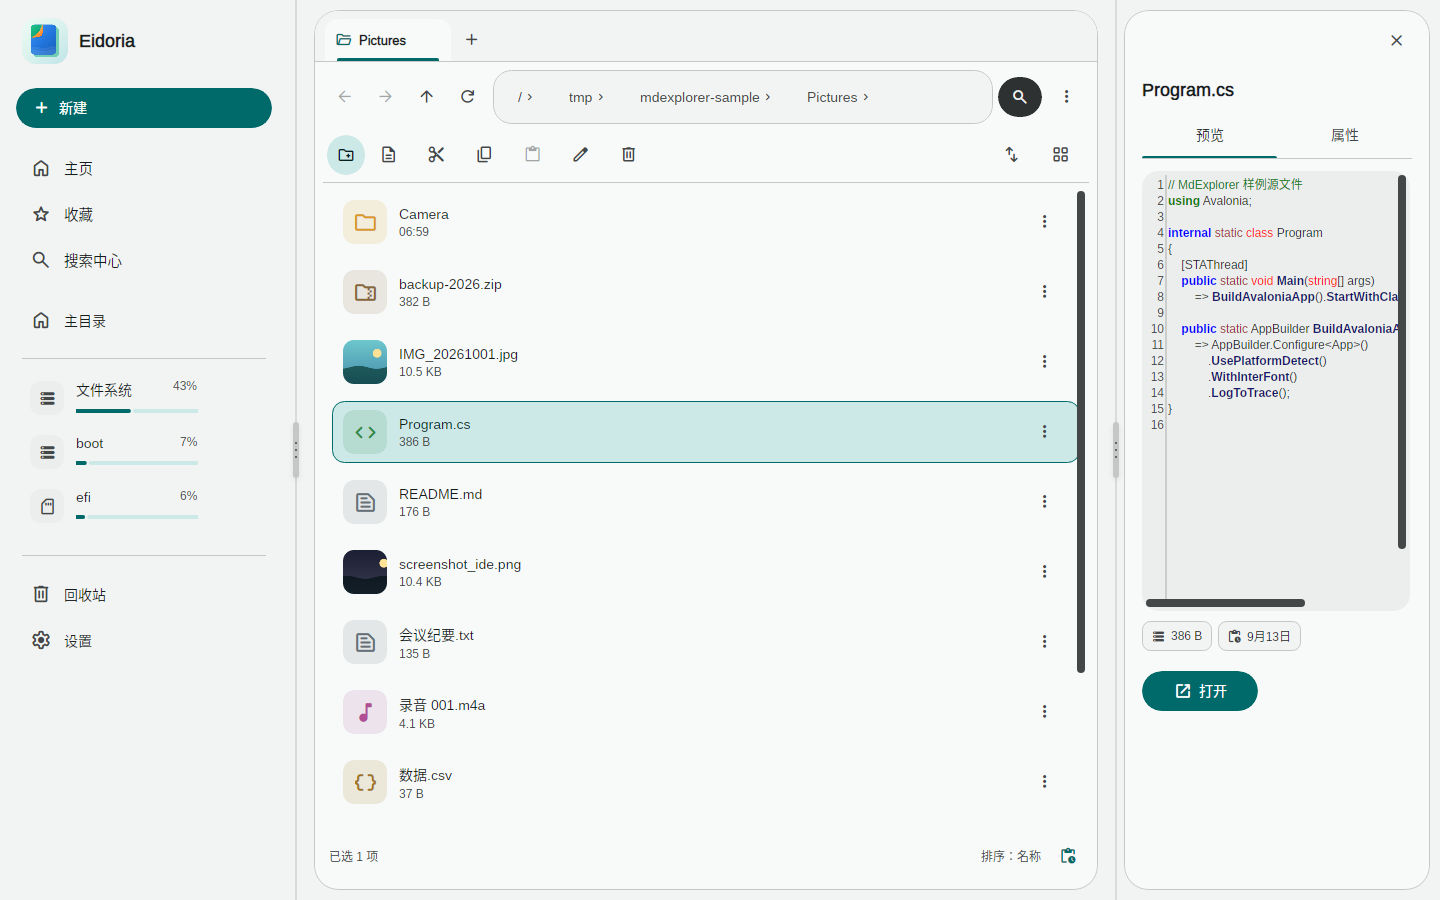
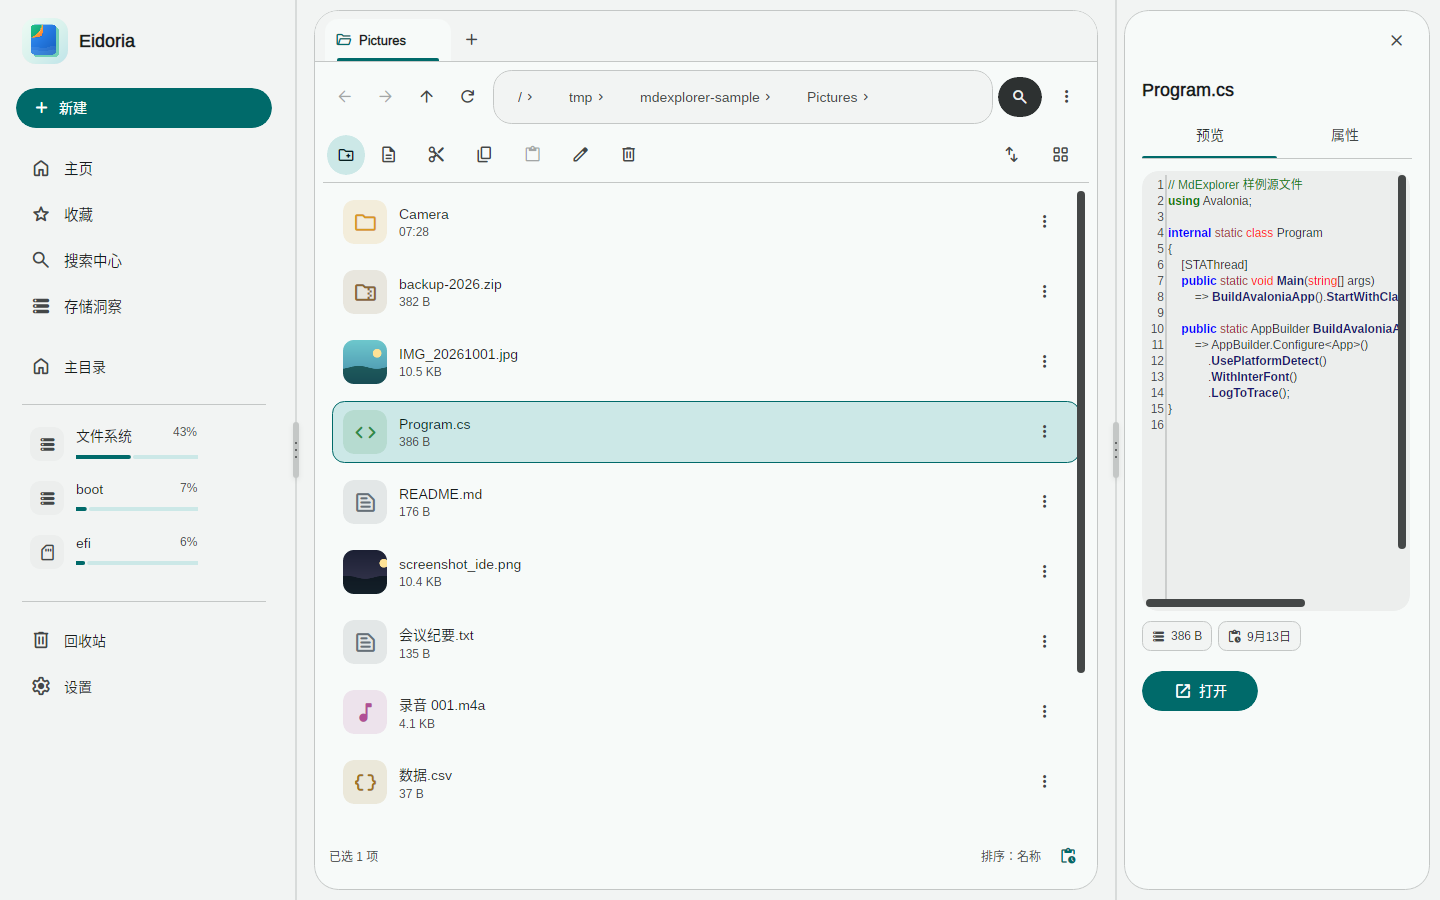
docs: archive v0.14 storage insights

diff --git a/README.md b/README.md
@@ -4,9 +4,9 @@
 
 基于 **Avalonia 12 + .NET 10** 的跨平台（Windows / Linux / Android）**本地**文件资源管理器，采用 **Material Design 3**（`Md3.Avalonia`）设计语言，按窗口尺寸类做真响应式（Adaptive）布局：底部导航栏（Compact）→ 导轨（Medium）→ 永久抽屉 + 预览侧栏（Expanded+）。核心层平台无关，平台能力经接口适配；许可证 Apache-2.0（见 `LICENSE`）。
 
-> **状态：v0.13**——浏览/搜索/预览（图片、文本、**Markdown 渲染、代码高亮、PDF 分页**、ZIP 条目）/复制移动删除（含回收站语义）/ZIP/收藏/设置已可用；v0.2 新增文件夹外部变更自动刷新、文件夹大小、校验和与批量重命名；**v0.3 新增 Android SAF 授权文件夹浏览**；**v0.4 新增详细信息视图**；**v0.5 新增拖放与系统剪贴板互通**；**v0.6 新增浏览器标签页与 PDF 分页预览，并将产品品牌定为 Eidoria（万象屿）**（名称与图标见 `docs/BRAND.md`；仓库、命名空间、Android ApplicationId 与数据目录仍保留内部代号 MdExplorer 以兼容既有数据）；**v0.7 新增串行任务中心、可编辑地址栏、最近访问与标签页恢复**；**v0.8 按概念稿重塑视觉层级：柔和底板承载白色工作区与预览浮动卡，标签页改为与工作区同面相连的浏览器式页签，路径胶囊、类型色图标井、圆角文件卡与精确 `MdList` 选中态统一收敛，Compact 将标签轨与面包屑折叠为当前目录**；**v0.9 换装极简新 Logo（深湖拱门·金日屿浪），三栏加入自研 Material 分隔条（拖动/键盘调整并持久化宽度，原型将回流 Md3.Avalonia），目录切换/页面与侧栏补齐入场与点击动效，插件脚本完成 Lua 优先评估（MoonSharp spike、Python 走进程外）**；**v0.10 新增按文件夹记忆视图与排序（可关、可清除、最多 200 个）和应用内“减少动态效果”，Material 分隔条补齐双击/Home 复位、16px 热区与 `:reduce-motion` 状态，设置页版本改为动态读取**；**v0.11 将整行搜索改成迷你搜索岛 + 悬浮搜索面板（Ctrl+F/K、回车递归、系统返回先收面板），预览拆为“预览 / 属性”双页签且 Compact/Medium 改用 Md3.Extra `MdFloatingWindow` 悬浮预览，全仓显式溢出区统一 `MdScrollViewer`，路径胶囊点空白编辑、点分段跳转，溢出菜单改为桌面三列分组限高，并以概念稿的蓝色折页重绘图标**；**v0.12 对照 `ai-v3` 概念图收敛真实界面：文件行/卡只保留一个紧凑元数据，桌面工具栏、搜索岛、状态区、任务与回收站优先图标+数值，Compact 顶栏新增带计数折叠页签入口，预览改为贴顶舞台与图标事实条，卡片/选中态/Rail 指示器统一到 MD3 tonal 表面与形状阶梯**；**v0.13 新增本地文件名索引与搜索中心：用户显式加入索引根后可跨根按名称/类型查询，页面同屏管理条目数、体积、更新时间、启停、重建与清除，浏览器递归搜索在快照覆盖时走索引、运行期增删改名使快照失效后回落实时扫描（正文/内容索引仍未实现）**。标签页各自保存路径、前进/后退栈、过滤词与选集，并可跨启动恢复；PDF 预览采用 MIT 许可的 PDFtoImage/PDFium 按页光栅化（Android 内置预览需 API 31+）。音视频播放为后续里程碑；**插件系统与本地 AI 两条轨道已完成评估、仍排在核心完善之后**。
+> **状态：v0.14**——浏览/搜索/预览（图片、文本、**Markdown 渲染、代码高亮、PDF 分页**、ZIP 条目）/复制移动删除（含回收站语义）/ZIP/收藏/设置已可用；v0.2 新增文件夹外部变更自动刷新、文件夹大小、校验和与批量重命名；**v0.3 新增 Android SAF 授权文件夹浏览**；**v0.4 新增详细信息视图**；**v0.5 新增拖放与系统剪贴板互通**；**v0.6 新增浏览器标签页与 PDF 分页预览，并将产品品牌定为 Eidoria（万象屿）**（名称与图标见 `docs/BRAND.md`；仓库、命名空间、Android ApplicationId 与数据目录仍保留内部代号 MdExplorer 以兼容既有数据）；**v0.7 新增串行任务中心、可编辑地址栏、最近访问与标签页恢复**；**v0.8 按概念稿重塑视觉层级：柔和底板承载白色工作区与预览浮动卡，标签页改为与工作区同面相连的浏览器式页签，路径胶囊、类型色图标井、圆角文件卡与精确 `MdList` 选中态统一收敛，Compact 将标签轨与面包屑折叠为当前目录**；**v0.9 换装极简新 Logo（深湖拱门·金日屿浪），三栏加入自研 Material 分隔条（拖动/键盘调整并持久化宽度，原型将回流 Md3.Avalonia），目录切换/页面与侧栏补齐入场与点击动效，插件脚本完成 Lua 优先评估（MoonSharp spike、Python 走进程外）**；**v0.10 新增按文件夹记忆视图与排序（可关、可清除、最多 200 个）和应用内“减少动态效果”，Material 分隔条补齐双击/Home 复位、16px 热区与 `:reduce-motion` 状态，设置页版本改为动态读取**；**v0.11 将整行搜索改成迷你搜索岛 + 悬浮搜索面板（Ctrl+F/K、回车递归、系统返回先收面板），预览拆为“预览 / 属性”双页签且 Compact/Medium 改用 Md3.Extra `MdFloatingWindow` 悬浮预览，全仓显式溢出区统一 `MdScrollViewer`，路径胶囊点空白编辑、点分段跳转，溢出菜单改为桌面三列分组限高，并以概念稿的蓝色折页重绘图标**；**v0.12 对照 `ai-v3` 概念图收敛真实界面：文件行/卡只保留一个紧凑元数据，桌面工具栏、搜索岛、状态区、任务与回收站优先图标+数值，Compact 顶栏新增带计数折叠页签入口，预览改为贴顶舞台与图标事实条，卡片/选中态/Rail 指示器统一到 MD3 tonal 表面与形状阶梯**；**v0.13 新增本地文件名索引与搜索中心：用户显式加入索引根后可跨根按名称/类型查询，页面同屏管理条目数、体积、更新时间、启停、重建与清除，浏览器递归搜索在快照覆盖时走索引、运行期增删改名使快照失效后回落实时扫描（正文/内容索引仍未实现）**；**v0.14 新增只读存储洞察：分析本地文件夹的总量、类型分布、一级子文件夹占用与大文件，并以同尺寸预筛 + SHA-256 分组复核精确重复文件（只定位、不自动清理；Android SAF 暂不分析）**。标签页各自保存路径、前进/后退栈、过滤词与选集，并可跨启动恢复；PDF 预览采用 MIT 许可的 PDFtoImage/PDFium 按页光栅化（Android 内置预览需 API 31+）。音视频播放为后续里程碑；**插件系统与本地 AI 两条轨道已完成评估、仍排在核心完善之后**。
 
-## 效果（CI 无头渲染实拍，归档于 `docs/assets/screenshots/`，含 Markdown/代码/批量重命名/详细信息视图/拖放提示/标签页/PDF/地址栏/任务中心/精修主页/悬浮预览/搜索岛/桌面溢出菜单/搜索中心 共 26 张）
+## 效果（CI 无头渲染实拍，归档于 `docs/assets/screenshots/`，含 Markdown/代码/批量重命名/详细信息视图/拖放提示/标签页/PDF/地址栏/任务中心/精修主页/悬浮预览/搜索岛/桌面溢出菜单/搜索中心/存储洞察 共 28 张）
 
 <img src="docs/assets/screenshots/17-large-tabs.png" alt="Large 1440：连接式双标签页 + 白色工作区 + 网格卡片 + 预览浮动卡" width="720" />
 
@@ -15,6 +15,8 @@
 <img src="docs/assets/screenshots/22-compact-floating-preview.png" alt="Compact 悬浮预览：可拖窗内含预览与属性双页签" width="240" /><img src="docs/assets/screenshots/23-large-search-island.png" alt="Large 悬浮搜索面板：迷你搜索岛展开后的搜索控制面" width="520" />
 
 <img src="docs/assets/screenshots/26-compact-search-center.png" alt="Compact 搜索中心：跨索引根查询与索引管理上下分工" width="240" /><img src="docs/assets/screenshots/25-large-search-center.png" alt="Large 搜索中心：跨索引根结果与索引健康同屏" width="520" />
+
+<img src="docs/assets/screenshots/28-compact-storage-insights.png" alt="Compact 存储洞察：占用排行与类型分布单列滚动" width="240" /><img src="docs/assets/screenshots/27-large-storage-insights.png" alt="Large 存储洞察：卷、子文件夹、类型与大文件同屏" width="520" />
 
 ## 下一阶段概念（非实拍）
 
